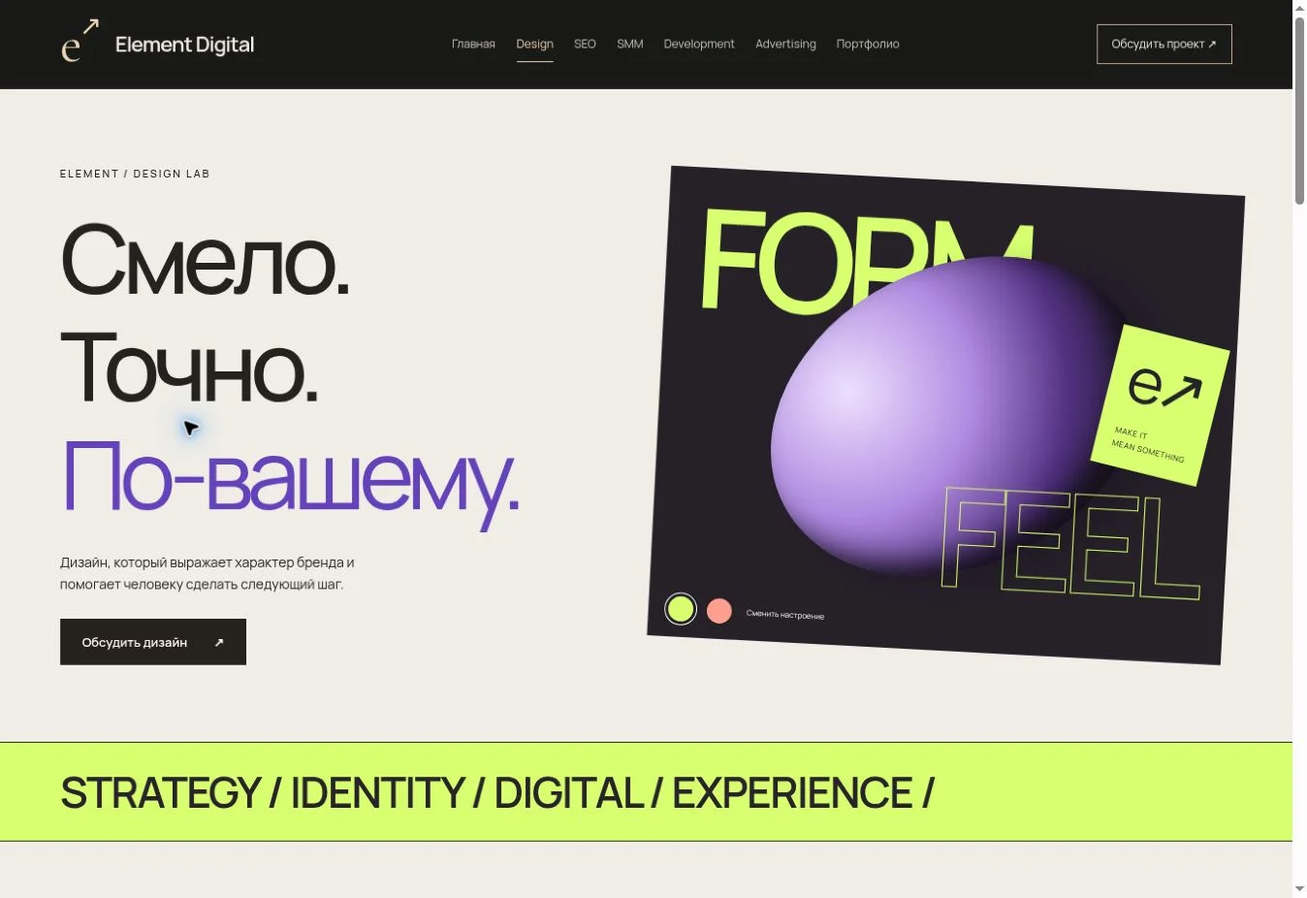
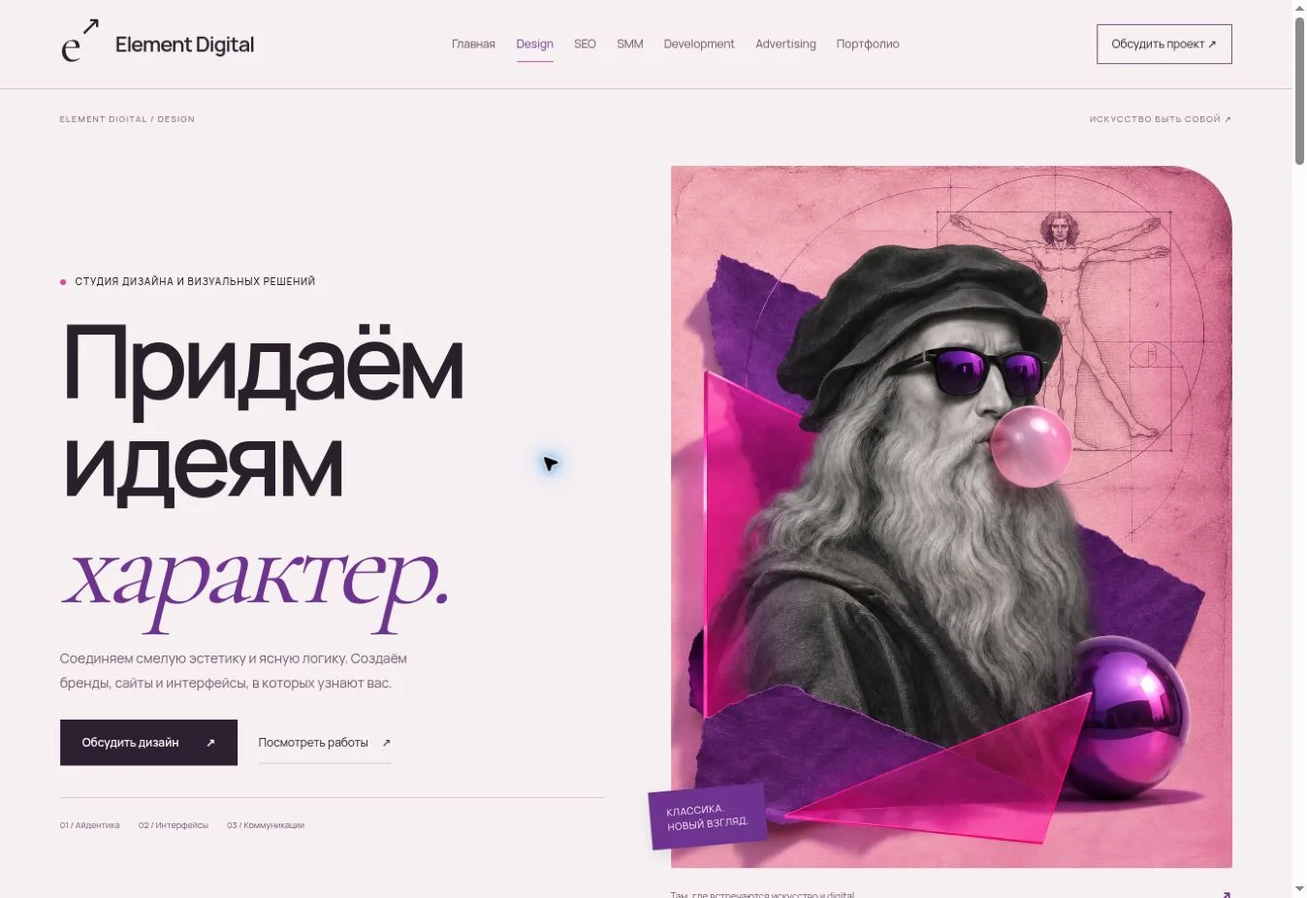
Restyle Design with Leonardo collage and pink-violet editorial direction

diff --git a/src/design.css b/src/design.css
@@ -1,0 +1,172 @@
+/* Editorial art direction, loaded only on the Design page. */
+body[data-page=design] {
+  --bg: #f6f0f2;
+  --text: #26212a;
+  --muted: #6d606e;
+  --line: #38263830;
+  --accent: #2b2031;
+  --design-pink: #e742a0;
+  --design-purple: #6e328f;
+  --design-paper: #eee1ec;
+  --button-text: #fff8fa;
+}
+body[data-page=design][data-design-palette=violet] {
+  --bg: #f0edf8;
+  --design-pink: #a348c7;
+  --design-purple: #543c9e;
+  --design-paper: #e5dff4;
+}
+body[data-page=design] .header {
+  background: var(--bg);
+  color: var(--text);
+  border-color: var(--line);
+}
+body[data-page=design] .brand-icon { color: var(--text); }
+body[data-page=design] .desktop-nav a { color: #605365; }
+body[data-page=design] .desktop-nav a:hover,
+body[data-page=design] .desktop-nav a[aria-current] { color: var(--design-purple); }
+body[data-page=design] .desktop-nav a[aria-current]:after { background: var(--design-pink); }
+body[data-page=design] .header-cta { border-color: #6e577b; }
+body[data-page=design] .header-cta:hover { background: var(--accent); color: #fff5f8; }
+body[data-page=design] .menu-toggle span { background: var(--text); }
+body[data-page=design] .mobile-nav a { border-color: var(--line); }
+body[data-page=design] a:hover { color: var(--design-purple); }
+body[data-page=design] .button:hover { background: var(--design-purple); border-color: var(--design-purple); color: #fff; }
+.design-edition {
+  display: flex;
+  justify-content: space-between;
+  gap: 20px;
+  padding-top: 24px;
+  font-size: 9px;
+  line-height: 1.5;
+  letter-spacing: .14em;
+  color: var(--muted);
+}
+.design-hero {
+  grid-template-columns: 1fr 1.03fr;
+  gap: clamp(40px, 5vw, 84px);
+  padding: 42px 0 38px;
+  min-height: 0;
+}
+.design-copy { padding-block: 12px 15px; min-width: 0; }
+.design-copy .eyebrow { font-size: 10px; letter-spacing: .1em; display: flex; align-items: center; gap: 10px; }
+.design-dot { width: 6px; height: 6px; background: var(--design-pink); border-radius: 50%; flex-shrink: 0; }
+.design-hero h1 { font-size: clamp(80px, 7.8vw, 126px); font-weight: 600; line-height: .96; letter-spacing: -.065em; }
+.design-hero h1 em { display: inline-block; margin-top: 8px; font-family: var(--serif); font-style: italic; font-size: 1.14em; font-weight: 400; line-height: .88; letter-spacing: -.05em; color: var(--design-purple); }
+.design-hero .design-copy .design-lead { margin: 30px 0 25px; max-width: 375px; font-size: 14px; line-height: 1.85; color: var(--muted); }
+.design-copy .actions { gap: 22px; }
+.design-copy .button { padding: 14px 22px; font-size: 12px; }
+.design-work-link { font-size: 12px; display: inline-flex; gap: 14px; padding-block: 12px; border-bottom: 1px solid var(--line); }
+.design-index { display: flex; gap: 20px; border-top: 1px solid var(--line); padding-top: 21px; margin-top: 33px; font-size: 9px; color: var(--muted); }
+.design-art {
+  min-height: 0;
+  margin: 0;
+  padding: 0;
+  background: none;
+  transform: none;
+  overflow: visible;
+  isolation: auto;
+  position: relative;
+  min-width: 0;
+}
+.design-image-wrap { position: relative; }
+.design-art picture { display: block; }
+.design-art img { width: 100%; height: auto; aspect-ratio: 4 / 5; object-fit: cover; border-radius: 2px 65px 2px 2px; }
+.design-image-label { position: absolute; left: -22px; bottom: 24px; background: var(--design-purple); color: #fbf3ff; padding: 15px 18px; font-size: 10px; line-height: 1.5; letter-spacing: .06em; transform: rotate(-5deg); box-shadow: 0 5px 14px #371b431a; }
+.design-art figcaption { display: flex; justify-content: space-between; align-items: center; gap: 20px; font-size: 10px; color: var(--muted); padding-top: 13px; }
+.design-art figcaption>span:last-child { font-size: 20px; color: var(--design-purple); }
+.design-art .palette-picker { position: static; color: var(--muted); margin-top: 10px; font-size: 9px; gap: 7px; }
+.design-art .palette-picker button { width: 24px; height: 24px; border: 3px solid var(--bg); background: #e742a0; outline-offset: 1px; }
+.design-art .palette-picker button[data-palette=violet] { background: #6e328f; }
+.design-art .palette-picker button[aria-pressed=true] { outline-color: var(--design-purple); }
+.design-art .palette-picker button:focus-visible { outline: 3px solid #4937a2; outline-offset: 4px; }
+.design-ribbon { display: flex; align-items: center; justify-content: space-between; gap: 24px; padding: 20px var(--gutter); color: #42223e; background: #f1b5d5; border-block: 1px solid #bd6b9d66; font-size: clamp(20px, 2.65vw, 42px); font-weight: 500; letter-spacing: -.035em; line-height: 1.2; }
+.design-ribbon>span:nth-child(even) { color: #813c83; }
+.design-manifesto { display: grid; grid-template-columns: .6fr 1.4fr; gap: 55px; align-items: start; border-bottom: 1px solid var(--line); }
+.design-manifesto>.eyebrow { padding-top: 8px; }
+.design-manifesto h2 { font-size: clamp(40px, 4.1vw, 65px); }
+.design-manifesto h2 em { color: var(--design-purple); }
+.design-manifesto p:not(.eyebrow) { font-size: 14px; max-width: 540px; margin: 28px 0 0; line-height: 1.9; color: var(--muted); }
+.design-capabilities .section-head h2 { font-size: clamp(32px, 3.2vw, 49px); }
+.design-capability-grid { display: grid; grid-template-columns: repeat(3, minmax(0, 1fr)); gap: 20px; }
+.design-capability-grid article { border: 1px solid var(--line); padding: 25px 24px 20px; background: #fbf7f9; min-width: 0; display: flex; flex-direction: column; }
+.design-capability-top { display: flex; justify-content: space-between; align-items: center; gap: 10px; color: var(--design-purple); font-size: 9px; letter-spacing: .05em; }
+.design-capability-top>span:last-child { font-size: 23px; }
+.design-capability-grid h3 { font-size: 28px; margin-top: 24px; }
+.design-capability-grid p { font-size: 12px; line-height: 1.85; color: var(--muted); margin: 17px 0 20px; }
+.design-tags { display: flex; flex-wrap: wrap; gap: 7px; margin-top: auto; font-size: 9px; color: #715b77; }
+.design-tags span { border: 1px solid #b6a0bd; border-radius: 20px; padding: 3px 9px; }
+.identity-specimen, .interface-specimen, .communication-specimen { height: 185px; margin-top: 27px; overflow: hidden; }
+.identity-specimen { background: #e8d8ed; display: grid; grid-template-columns: repeat(3,1fr); grid-template-rows: 1fr 32px; padding: 25px 24px 0; gap: 12px 0; }
+.identity-specimen>span:first-child { grid-column: span 2; font-family: var(--serif); font-style: italic; font-size: 80px; line-height: 1; color: #512b68; }
+.identity-specimen>span:nth-child(2) { font-family: var(--serif); font-size: 40px; color: #913c8d; padding-top: 16px; }
+.identity-specimen i:nth-last-child(3) { background: #613375; }.identity-specimen i:nth-last-child(2) { background: #e742a0; }.identity-specimen i:last-child { background: #f4a8ca; }
+.interface-specimen { position: relative; background: #2d2437; color: #eee5f4; padding: 20px; }
+.interface-specimen>div { position: relative; z-index: 1; border: 1px solid #b0a0bb; height: 146px; padding: 18px; }
+.interface-specimen b { display: block; font-size: 20px; line-height: 1.15; letter-spacing: -.045em; font-weight: 500; }.interface-specimen span { display: inline-block; background: #e5bbd8; color: #392a40; font-size: 8px; padding: 6px 10px; margin-top: 15px; }
+.interface-specimen>i { position: absolute; width: 120px; height: 120px; right: -15px; bottom: -25px; border-radius: 50%; background: radial-gradient(circle at 30% 30%,#f4b4dd,#a164bc 50%,#3f2657); }
+.communication-specimen { background: #efbbd6; color: #4d295e; padding: 16px 20px; display: flex; justify-content: space-between; align-items: flex-end; }
+.communication-specimen>span:first-child { font-size: 38px; font-weight: 600; line-height: 1; letter-spacing: -.055em; }.communication-specimen em { color: #8e397b; font-size: 1.2em; font-weight: 400; }.communication-specimen>span:last-child { font-size: 75px; line-height: 1; }
+.design-specimen-note { color: var(--muted); font-size: 10px; margin: 18px 0 0; }
+.design-work { background: #29212f; color: #f9eff8; --text:#f9eff8; --muted:#c9bacd; --line:#ddc5e630; --accent:#f1c4df; }
+.design-work .section-head h2 { font-size: clamp(38px, 4vw, 63px); }.design-work .section-head h2 em { color: #efb5d8; }
+.design-work .project-picture { background: #e5dce5; }
+.design-work .project-card:nth-child(2) { padding-top: 42px; }.design-work .project-card:nth-child(3) { padding-top: 80px; }
+.design-work .project-caption h3 { color: #fbf2f9; }.design-work a:hover { color: #efb5d8!important; }
+body[data-page=design] .design-delivery { background: #eadceb; color: var(--text); --muted:#6d606e; }
+.design-delivery h2 { font-size: clamp(37px,3.9vw,62px); }.design-delivery h2 em { color: var(--design-purple); }
+.design-delivery .split p { color: var(--muted); font-size: 13px; margin-top: 25px; max-width: 370px; }
+.design-delivery .deliverables li { border-color: var(--line); font-size: 13px; padding-block: 18px; }.design-delivery .deliverables li:before { color: var(--design-purple); }
+.design-process .steps .step-num { color: var(--design-purple); }
+body[data-page=design] .contact { background:#e8cbdc; --muted:#614961; }.contact-panel { border-color:#a28b9d55; }
+body[data-page=design] .contact-panel { background: #f7eaf2; }
+body[data-page=design] .contact .button { background:#402c49; border-color:#402c49; }
+body[data-page=design] .contact .button:hover { background:#66377c; }
+body[data-page=design] .contact input:not([type=checkbox]),body[data-page=design] .contact textarea { border-color:#b7a1b4; }
+body[data-page=design] .contact input::placeholder,body[data-page=design] .contact textarea::placeholder { color:#7a6278; }
+@media (min-width:1500px) { .design-hero { grid-template-columns:1fr .95fr; gap:110px; }.design-art { max-width:590px; justify-self:end; }.design-copy .design-lead { font-size:16px; } }
+@media (max-width:1000px) {
+  .design-hero { gap:35px; }.design-hero h1 { font-size:83px; }
+  .design-copy .actions { gap:12px; }.design-index { gap:12px; font-size:8px; }
+  .design-capability-grid article { padding:20px 18px; }.design-capability-grid h3 { font-size:24px; }
+  .design-manifesto { grid-template-columns:.5fr 1.5fr; gap:30px; }
+}
+@media (max-width:760px) {
+  .design-hero { grid-template-columns:1fr; padding:35px 0 25px; gap:35px; }
+  .design-copy { max-width:600px; }.design-hero h1 { font-size:clamp(74px,12vw,100px); }
+  .design-hero .design-copy .design-lead { max-width:470px; }.design-index { gap:23px; font-size:9px; }
+  .design-art { width:min(100%,530px); margin:0 auto; }.design-art img { border-top-right-radius:45px; }
+  .design-image-label { left:-10px; }.design-manifesto { grid-template-columns:1fr; gap:10px; }
+  .design-capability-grid { grid-template-columns:1fr; gap:22px; }
+  .design-capability-grid article { padding:25px; display:grid; grid-template-columns:1fr 1fr; column-gap:30px; }
+  .design-capability-top,.design-capability-grid h3,.design-capability-grid p,.design-tags { grid-column:1; }
+  .design-capability-grid h3 { margin-top:15px; }.design-capability-grid p { font-size:13px; }
+  .identity-specimen,.interface-specimen,.communication-specimen { grid-column:2; grid-row:1 / 5; height:200px; margin-top:0; align-self:center; }
+  .design-work .project-grid { grid-template-columns:1fr; gap:35px; }.design-work .project-card:nth-child(n) { padding-top:0; }
+}
+@media (max-width:640px) {
+  .design-edition { padding-top:18px; font-size:8px; }.design-edition>span:last-child { max-width:105px; text-align:right; }
+  .design-copy .eyebrow { font-size:8px; letter-spacing:.08em; margin-bottom:25px; gap:8px; }
+  .design-hero { gap:28px; }.design-hero h1 { font-size:clamp(73px,20vw,110px); }
+  .design-hero h1 em { font-size:1.1em; }.design-hero .design-copy .design-lead { font-size:13px; margin-block:25px; }
+  .design-copy .actions { gap:13px; }.design-copy .button { padding:13px 18px; gap:20px; font-size:11px; }
+  .design-work-link { font-size:11px; gap:10px; }.design-index { margin-top:27px; gap:16px; font-size:8px; }
+  .design-art { margin:0; }.design-image-label { padding:11px 14px; font-size:9px; bottom:20px; left:-8px; }
+  .design-art figcaption { font-size:9px; gap:15px; }.design-art .palette-picker { font-size:9px; }
+  .design-ribbon { gap:12px; font-size:19px; padding-block:18px; }.design-ribbon>span:last-child { display:none; }
+  .design-manifesto h2 { font-size:39px; }.design-manifesto p:not(.eyebrow) { font-size:13px; margin-top:23px; }
+  .design-capability-grid article { display:flex; padding:24px; }.design-capability-grid h3 { font-size:28px; margin-top:24px; }
+  .design-capability-grid p { margin-block:18px; }.design-tags { margin-top:0; }
+  .identity-specimen,.interface-specimen,.communication-specimen { margin-top:24px; width:100%; height:190px; }
+  .design-work .section-head h2 { font-size:39px; }.design-delivery h2 { font-size:40px; }
+  .design-work .project-caption { flex-wrap:wrap; }.design-work .project-caption>span { text-align:left; }
+}
+@media (max-width:359px) {
+  .design-copy .eyebrow { font-size:7px; }.design-hero h1 { font-size:68px; }
+  .design-copy .actions { gap:7px; }.design-copy .button { padding-inline:12px; gap:12px; font-size:10px; }.design-work-link { font-size:10px; gap:7px; }
+  .design-index { font-size:7px; gap:12px; }.design-ribbon { font-size:16px; gap:8px; }
+}
+body[data-page=design] .footer .brand-icon { color:#ecd4b3; }
+body[data-page=design] .footer a:hover { color:#efb5d8; }
+body[data-page=design] .contact .button.outline { background:transparent; color:#402c49; border-color:#785d80; }
+body[data-page=design] .contact .button.outline:hover { background:#ead7ee; color:#402c49; }

diff --git a/src/premium.js b/src/premium.js
@@ -48,7 +48,7 @@ if(form){
  });
  $('#copy-brief').addEventListener('click',async()=>{try{await navigator.clipboard.writeText($('#prepared-text').value);setStatus('Текст скопирован. Отправьте его в чате студии.');}catch{$('#prepared-text').focus();$('#prepared-text').select();setStatus('Выделили текст — скопируйте его вручную.');}});
 }
-document.querySelectorAll('[data-palette]').forEach(b=>b.addEventListener('click',()=>{document.querySelector('.design-art').dataset.palette=b.dataset.palette;document.querySelectorAll('button[data-palette]').forEach(x=>x.setAttribute('aria-pressed',String(x===b)));}));
+document.querySelectorAll('button[data-palette]').forEach(b=>b.addEventListener('click',()=>{document.body.dataset.designPalette=b.dataset.palette;document.querySelectorAll('button[data-palette]').forEach(x=>x.setAttribute('aria-pressed',String(x===b)));}));
 const seoContent={technical:['ТЕХНИЧЕСКАЯ ОСНОВА','Сайт, доступный поиску.',['Индексация и канонические URL','Скорость и мобильная версия','Структура и внутренние ссылки']],content:['СЕМАНТИКА И СОДЕРЖАНИЕ','Ответы на реальный спрос.',['Карта поисковых запросов','Посадочные страницы по темам','Полезные тексты и метаданные']],measure:['ИЗМЕРЕНИЕ И РАЗВИТИЕ','От наблюдений к решениям.',['Видимость и переходы из поиска','Обращения и целевые действия','Отчёт и следующий план работ']]};
 document.querySelectorAll('[data-seo-tab]').forEach(b=>b.addEventListener('click',()=>{document.querySelectorAll('[data-seo-tab]').forEach(x=>x.setAttribute('aria-pressed',String(x===b)));const [label,title,items]=seoContent[b.dataset.seoTab];const panel=$('#seo-panel');panel.replaceChildren();const p=document.createElement('p');p.className='console-label';p.textContent=label;const h=document.createElement('h3');h.textContent=title;const ul=document.createElement('ul');ul.className='console-checks';for(const item of items){const li=document.createElement('li');li.textContent=item;const span=document.createElement('span');span.textContent='↗';li.append(span);ul.append(li);}panel.append(p,h,ul);}));
 if($('#house-demo')){import('./house.js').then(({renderHouse,initHouses})=>{$('#house-demo').innerHTML=renderHouse('demo-house');initHouses();}).catch(()=>{$('#house-demo').textContent='Иллюстрация временно недоступна. Вы можете выбрать домик ниже.';});}

diff --git a/src/index.html b/src/index.html
@@ -7,6 +7,6 @@
 <link rel="canonical" href="{{canonical}}">
 <meta property="og:type" content="website"><meta property="og:locale" content="ru_RU"><meta property="og:site_name" content="Element Digital">
 <meta property="og:title" content="{{title}}"><meta property="og:description" content="{{description}}"><meta property="og:url" content="{{canonical}}"><meta property="og:image" content="{{url}}/assets/og.png"><meta property="og:image:width" content="1200"><meta property="og:image:height" content="630"><meta property="og:image:alt" content="Element Digital — digital-студия полного цикла"><meta name="twitter:card" content="summary_large_image">
-<link rel="icon" href="{{base}}assets/favicon.svg" type="image/svg+xml"><link rel="preload" href="{{base}}assets/manrope-400.woff" as="font" type="font/woff" crossorigin><link rel="stylesheet" href="{{base}}premium.css">
+<link rel="icon" href="{{base}}assets/favicon.svg" type="image/svg+xml"><link rel="preload" href="{{base}}assets/manrope-400.woff" as="font" type="font/woff" crossorigin><link rel="stylesheet" href="{{base}}premium.css">{{pageStyles}}
 <script type="application/ld+json">{{schema}}</script><script id="site-config" type="application/json">{{config}}</script><script type="module" src="{{base}}premium.js"></script>
 </head><body data-page="{{theme}}" {{demo}}>{{body}}</body></html>

diff --git a/README.md b/README.md
@@ -26,7 +26,7 @@ npm run build
 | URL | Содержание |
 | --- | --- |
 | `/` | Графитовая главная, горы и управляемое движение облаков |
-| `/design/` | Айдентика, UX/UI, визуальные коммуникации; смена палитры |
+| `/design/` | Редакционный стиль, коллаж с Леонардо и витрувианским человеком; розово-фиолетовое оформление |
 | `/seo/` | Аудит, семантика, развитие; интерактивные этапы |
 | `/smm/` | Стратегия, контент, ведение и аналитика |
 | `/development/` | Все исходные услуги разработки и поддержка |
@@ -45,7 +45,8 @@ npm run build
 - `src/pages.mjs` — общий каркас, контент и разметка направлений;
 - `src/index.html` — HTML-шаблон, метаданные, структурированные данные;
 - `src/config.js` — действующие услуги, проекты, контакты, процесс, FAQ;
-- `src/premium.css` — система стилей и адаптивность;
+- `src/premium.css` — общая система стилей и адаптивность;
+- `src/design.mjs`, `src/design.css` — разметка и стили страницы Design; стили загружаются только на этой странице;
 - `src/premium.js` — меню, форма, демо и необязательная аналитика;
 - `scripts/build.mjs` — оба варианта сборки, SEO и базовый путь;
 - `scripts/leads.mjs` — исключительно серверная доставка;
@@ -77,7 +78,7 @@ SITE_URL=https://kerbalis1.github.io/element-digital PUBLIC_LEADS_ENDPOINT=https
 
 Горный фон: 91 КБ на широком экране, 30 КБ в мобильной версии. Локальные шрифты используют `font-display: swap`; изображения проектов загружаются лениво и имеют размеры. Нет фреймворка, внешних библиотек и бесконечных таймеров JavaScript для облаков. Движение облаков использует transform, останавливается кнопкой и учитывает `prefers-reduced-motion`. Демо дома сохраняет управление клавиатурой и отключает эффекты при уменьшении движения.
 
-Семантические заголовки, landmarks, skip-link, видимый фокус, подписи полей, живые статусы, нативные details и доступное мобильное меню. Проверка мобильной компоновки — в браузере на ширине 375 px; она не заменяет проверку на физических iOS/Android-устройствах. Оценка Lighthouse/Core Web Vitals на production не измерялась.
+Семантические заголовки, landmarks, skip-link, видимый фокус, подписи полей, живые статусы, нативные details и доступное мобильное меню. Проверка мобильной компоновки — в браузере на ширине 375 px; обновлённая Design дополнительно проверена на 320 и 768 px; она не заменяет проверку на физических iOS/Android-устройствах. Оценка Lighthouse/Core Web Vitals на production не измерялась.
 
 ## Проверка и выпуск
 

diff --git a/docs/review.md b/docs/review.md
@@ -40,3 +40,15 @@
 ### SEO
 
 ![SEO](review-images/seo.webp)
+
+## Обновление Design после выбора изображения
+
+Страница переработана в редакционной эстетике: светлый фон, крупная смешанная типографика, розово-фиолетовая палитра и выбранный коллаж Леонардо в очках с розовой жвачкой и витрувианским человеком на фоне. Визуальный язык продолжен в направлениях услуг, демонстрациях, материалах на выходе и форме. Смена цветового оформления сохранена.
+
+Разметка вынесена в `src/design.mjs`, отдельные стили — в `src/design.css` и подключаются только на Design. Для изображения подготовлены две версии WebP, браузер выбирает мобильную через picture.
+
+Дополнительно проверены ширины 320, 375 и 768 px: горизонтальное переполнение отсутствует, изображения загружаются. В браузере проверены оба цветовых варианта, переход к работам, открытие меню и Escape, форма с подготовкой сообщения при недоступной прямой доставке. Сообщения во внешние сервисы не отправлялись.
+
+Публикация и слияние в main по-прежнему не выполнены.
+
+[Посмотреть обновлённую Design целиком](review-images/design-full.webp)
